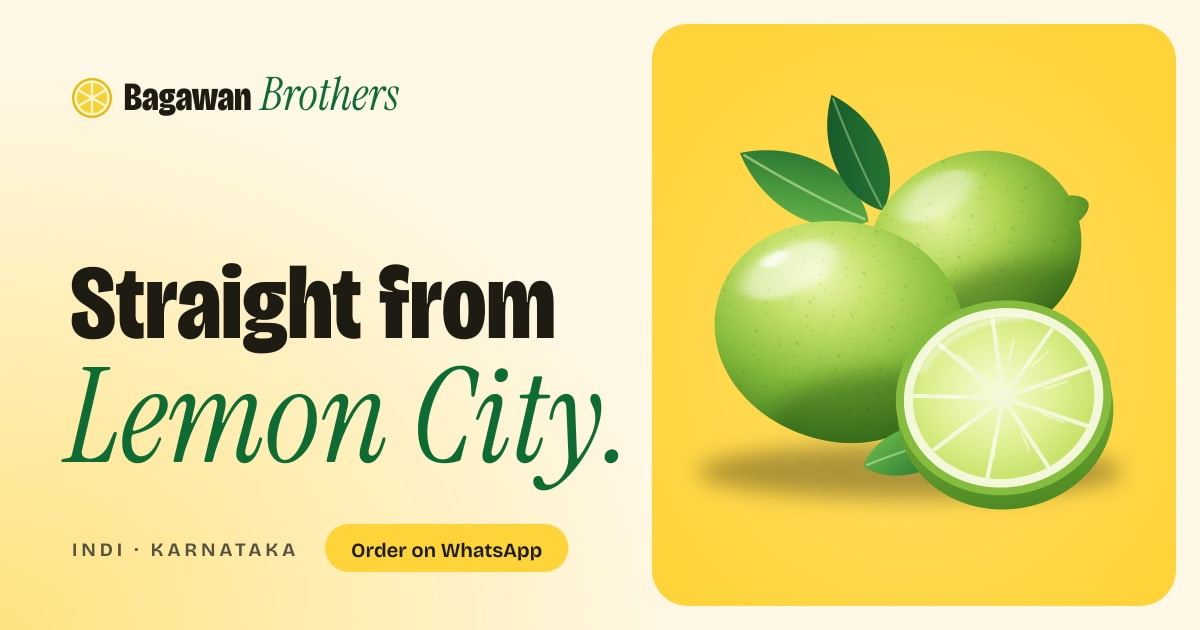
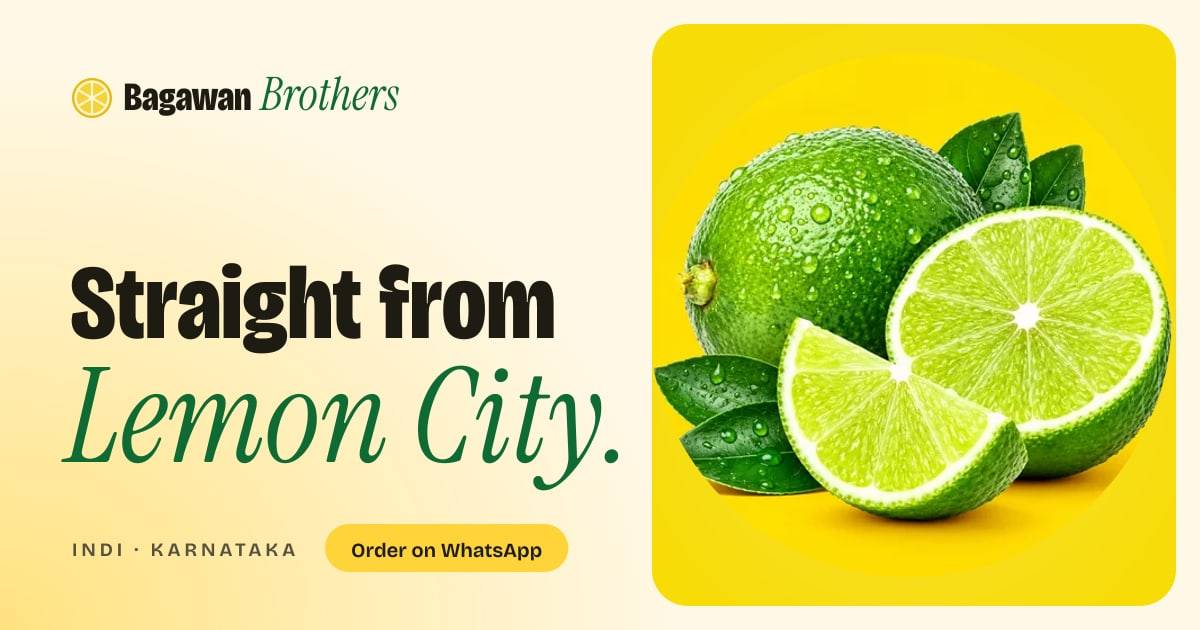
Use real Kagzi photo in hero and lemon cards
Replaces the drawn Kagzi placeholder; hero background now follows the
photo's yellow backdrop.

Claude-Session: https://claude.ai/code/session_016hrt77c3Qs9wXqkj3ZBBmf

diff --git a/site/index.html b/site/index.html
@@ -5,7 +5,7 @@
   <meta name="viewport" content="width=device-width, initial-scale=1, viewport-fit=cover">
   <title>Bagawan Brothers — Fresh Lemons from Indi, Karnataka</title>
   <meta name="description" content="Lemon supplier from Indi, Karnataka's Lemon City. A-grade Kagzi lime for juice shops, hotels, street vendors and wholesalers in Bengaluru and across Karnataka. Order on WhatsApp.">
-  <meta name="theme-color" content="#FFD43B">
+  <meta name="theme-color" content="#F7DC07">
   <link rel="canonical" href="https://bagawan.rouf.in/">
   <link rel="icon" href="favicon.svg" type="image/svg+xml">
   <link rel="apple-touch-icon" href="assets/img/icons/apple-touch-icon.png">
@@ -22,7 +22,7 @@
   <meta name="twitter:image" content="https://bagawan.rouf.in/assets/img/og.jpg">
   <link rel="preload" href="assets/fonts/bricolage-grotesque-latin.woff2" as="font" type="font/woff2" crossorigin>
   <link rel="stylesheet" href="assets/css/styles.css">
-  <style>:root{/*bb:style*/--hero-bg:#FFD43B;--hero-bg-top:#DBB633;--hero-bg-bottom:#FFD84F;--hero-ink:#1D1B12;--hero-line:rgba(29,27,18,.38);--hero-soft:rgba(29,27,18,.14);--hero-pill:rgba(255,255,255,.42);--hero-btn:#FFFDF5;--hero-btn-ink:#1D1B12;--rind:#6FA52C;--pith:#F4F8DA;--flesh:#D6EE86;--leaf-f:#2A7F36;/*/bb:style*/}</style>
+  <style>:root{/*bb:style*/--hero-bg:#F7DC07;--hero-bg-top:#FEE002;--hero-bg-bottom:#FDDE02;--hero-ink:#1D1B12;--hero-line:rgba(29,27,18,.38);--hero-soft:rgba(29,27,18,.14);--hero-pill:rgba(255,255,255,.42);--hero-btn:#FFFDF5;--hero-btn-ink:#1D1B12;--rind:#6FA52C;--pith:#F4F8DA;--flesh:#D6EE86;--leaf-f:#2A7F36;/*/bb:style*/}</style>
   <script>document.documentElement.classList.add('js');setTimeout(function(){if(!window.BB_READY)document.documentElement.classList.remove('js')},3000);</script>
   <script type="application/ld+json">
   {
@@ -153,7 +153,7 @@
               <span class="fl fl--slice fl--blur"><span class="fl__in"><svg viewBox="0 0 100 100"><use href="#i-slice"/></svg></span></span>
               <span class="fl fl--leaf"><span class="fl__in"><svg viewBox="0 0 100 50"><use href="#i-leaf"/></svg></span></span>
             </div>
-            <div class="stage__prod" data-prod><!--bb:prod--><figure class="prod prod--cutout"><img src="assets/img/kagzi.svg" width="600" height="600" alt="Kagzi lemons" fetchpriority="high" decoding="async"></figure><!--/bb:prod--></div>
+            <div class="stage__prod" data-prod><!--bb:prod--><figure class="prod prod--solid"><img src="assets/img/lemons/kagzi-480.webp" srcset="assets/img/lemons/kagzi-480.webp 480w, assets/img/lemons/kagzi-960.webp 960w" sizes="(min-width: 900px) 40vw, 80vw" width="1254" height="1254" alt="Kagzi lemons" fetchpriority="high" decoding="async"></figure><!--/bb:prod--></div>
             <div class="stage__front" aria-hidden="true">
               <span class="fl fl--slice"><span class="fl__in"><svg viewBox="0 0 100 100"><use href="#i-slice"/></svg></span></span>
               <span class="fl fl--half"><span class="fl__in"><svg viewBox="0 0 100 56"><use href="#i-half"/></svg></span></span>
@@ -187,8 +187,8 @@
         <p class="eyebrow" data-reveal>Our lemons</p>
         <h2 class="h2" data-split>Pick your <em>lemon.</em></h2>
         <div class="vgrid vgrid--home"><!--bb:cards-home-->
-          <article class="vcard vcard--cutout" style="--vc-bg:#FFD43B;--vc-ink:#1D1B12;--delay:0.00s" data-reveal>
-            <div class="vcard__pic"><img src="assets/img/kagzi.svg" width="600" height="600" alt="Kagzi lemons" loading="lazy" decoding="async"></div>
+          <article class="vcard vcard--solid" style="--vc-bg:#F7DC07;--vc-ink:#1D1B12;--delay:0.00s" data-reveal>
+            <div class="vcard__pic"><img src="assets/img/lemons/kagzi-480.webp" srcset="assets/img/lemons/kagzi-480.webp 480w, assets/img/lemons/kagzi-960.webp 960w" sizes="(min-width: 1100px) 22vw, (min-width: 700px) 30vw, 46vw" width="1254" height="1254" alt="Kagzi lemons" loading="lazy" decoding="async"></div>
             <p class="vcard__badge">GI-tagged Indi lime</p>
             <h3 class="vcard__name">Kagzi</h3>
             <p class="vcard__tag">Paper-thin skin. All juice.</p>

diff --git a/site/lemons.html b/site/lemons.html
@@ -136,8 +136,8 @@
     <section class="section range" id="varieties">
       <div class="container">
         <div class="vgrid vgrid--all"><!--bb:cards-all-->
-          <article class="vcard vcard--cutout" style="--vc-bg:#FFD43B;--vc-ink:#1D1B12;--delay:0.00s" data-reveal>
-            <div class="vcard__pic"><img src="assets/img/kagzi.svg" width="600" height="600" alt="Kagzi lemons" loading="lazy" decoding="async"></div>
+          <article class="vcard vcard--solid" style="--vc-bg:#F7DC07;--vc-ink:#1D1B12;--delay:0.00s" data-reveal>
+            <div class="vcard__pic"><img src="assets/img/lemons/kagzi-480.webp" srcset="assets/img/lemons/kagzi-480.webp 480w, assets/img/lemons/kagzi-960.webp 960w" sizes="(min-width: 1100px) 22vw, (min-width: 700px) 30vw, 46vw" width="1254" height="1254" alt="Kagzi lemons" loading="lazy" decoding="async"></div>
             <p class="vcard__badge">GI-tagged Indi lime</p>
             <h3 class="vcard__name">Kagzi</h3>
             <p class="vcard__tag">Paper-thin skin. All juice.</p>

diff --git a/site/assets/js/varieties.js b/site/assets/js/varieties.js
@@ -6,16 +6,16 @@ window.BB_VARIETIES = [
     "name": "Kagzi",
     "tagline": "Paper-thin skin. All juice.",
     "badge": "GI-tagged Indi lime",
-    "src": "assets/img/kagzi.svg",
-    "srcset": "",
-    "thumb": "assets/img/kagzi.svg",
-    "w": 600,
-    "h": 600,
-    "mode": "cutout",
-    "placeholder": true,
-    "bg": "#FFD43B",
-    "bgTop": "#DBB633",
-    "bgBottom": "#FFD84F",
+    "src": "assets/img/lemons/kagzi-480.webp",
+    "srcset": "assets/img/lemons/kagzi-480.webp 480w, assets/img/lemons/kagzi-960.webp 960w",
+    "thumb": "assets/img/lemons/kagzi-thumb.webp",
+    "w": 1254,
+    "h": 1254,
+    "mode": "solid",
+    "placeholder": false,
+    "bg": "#F7DC07",
+    "bgTop": "#FEE002",
+    "bgBottom": "#FDDE02",
     "ink": "#1D1B12",
     "rind": "#6FA52C",
     "pith": "#F4F8DA",
